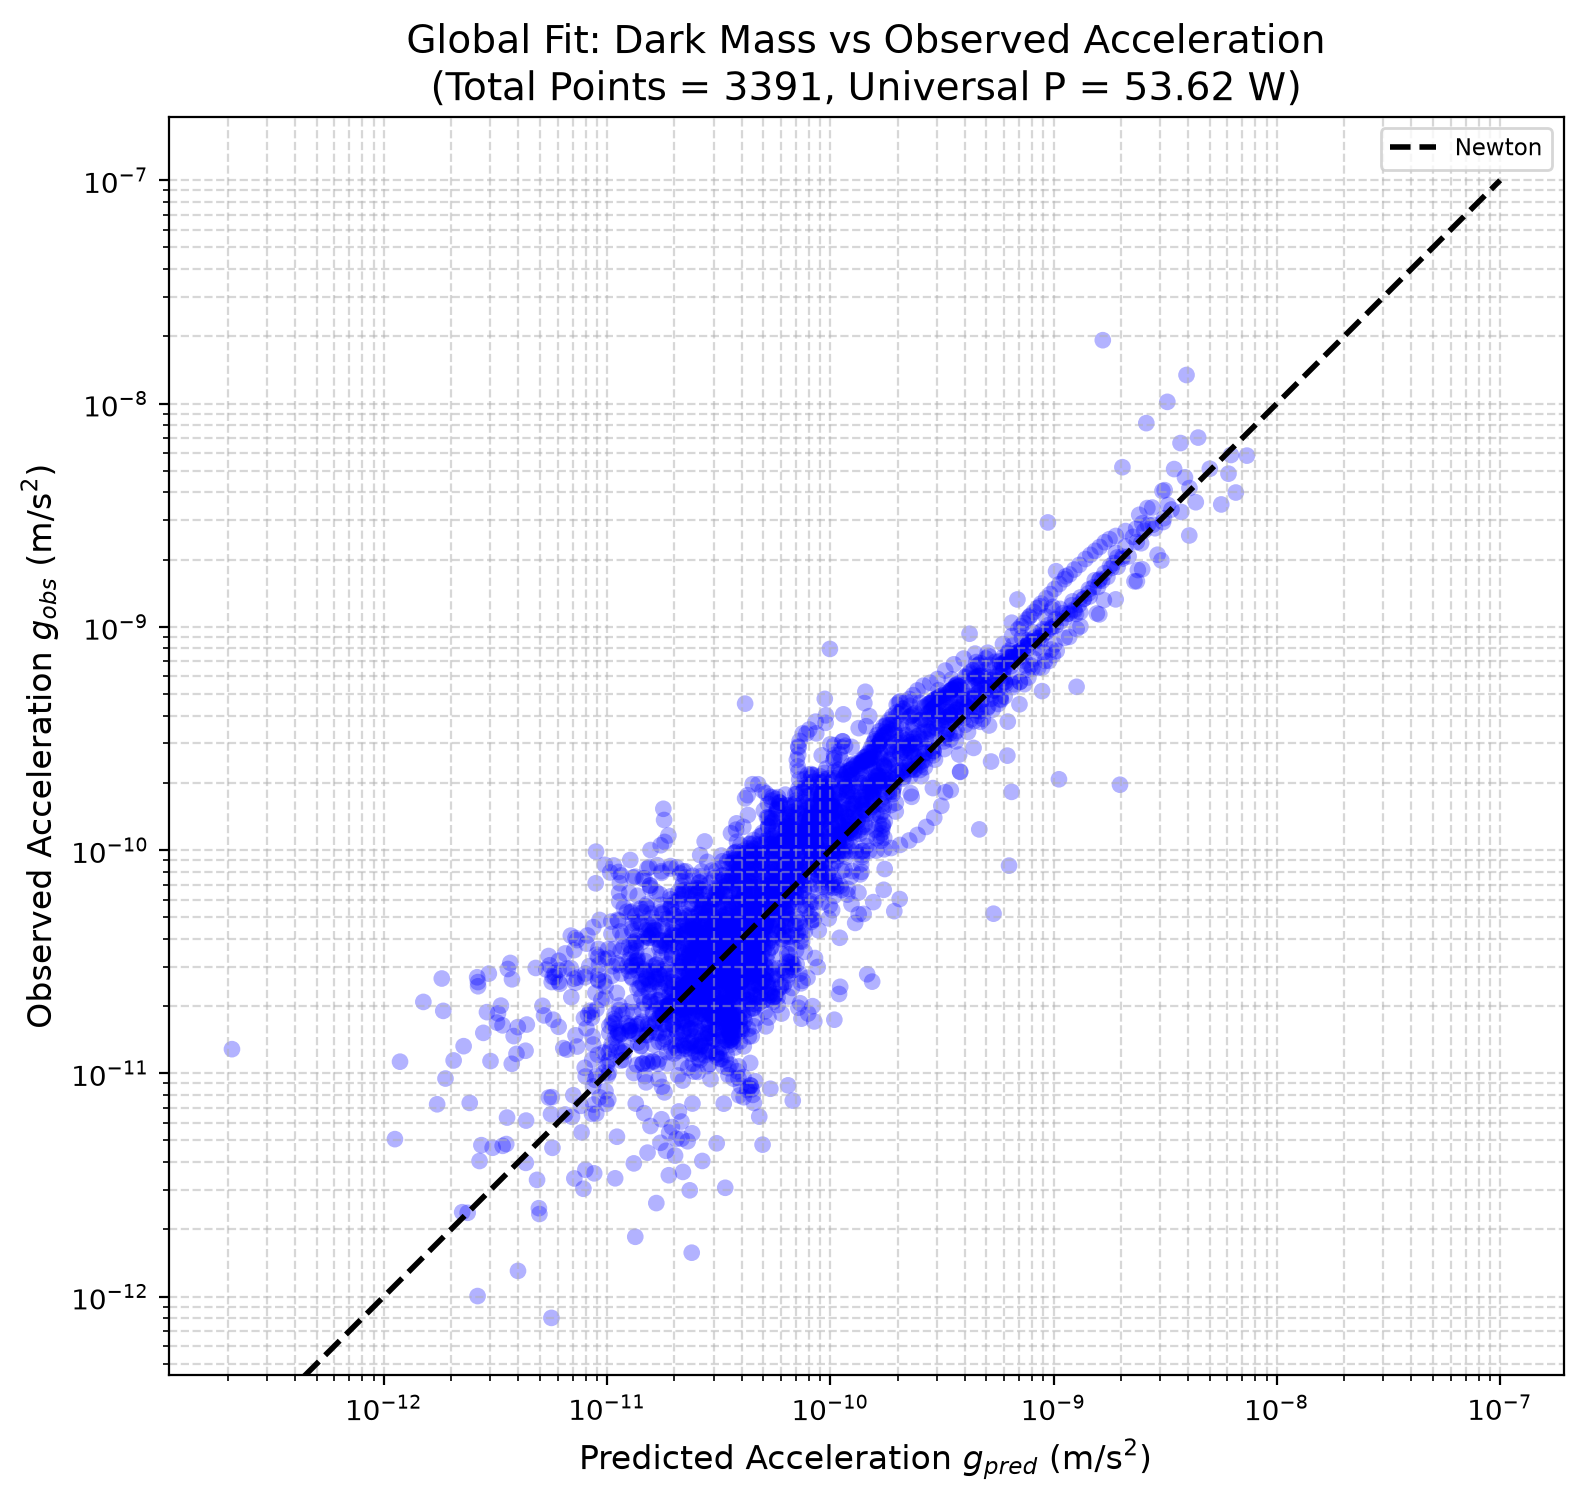
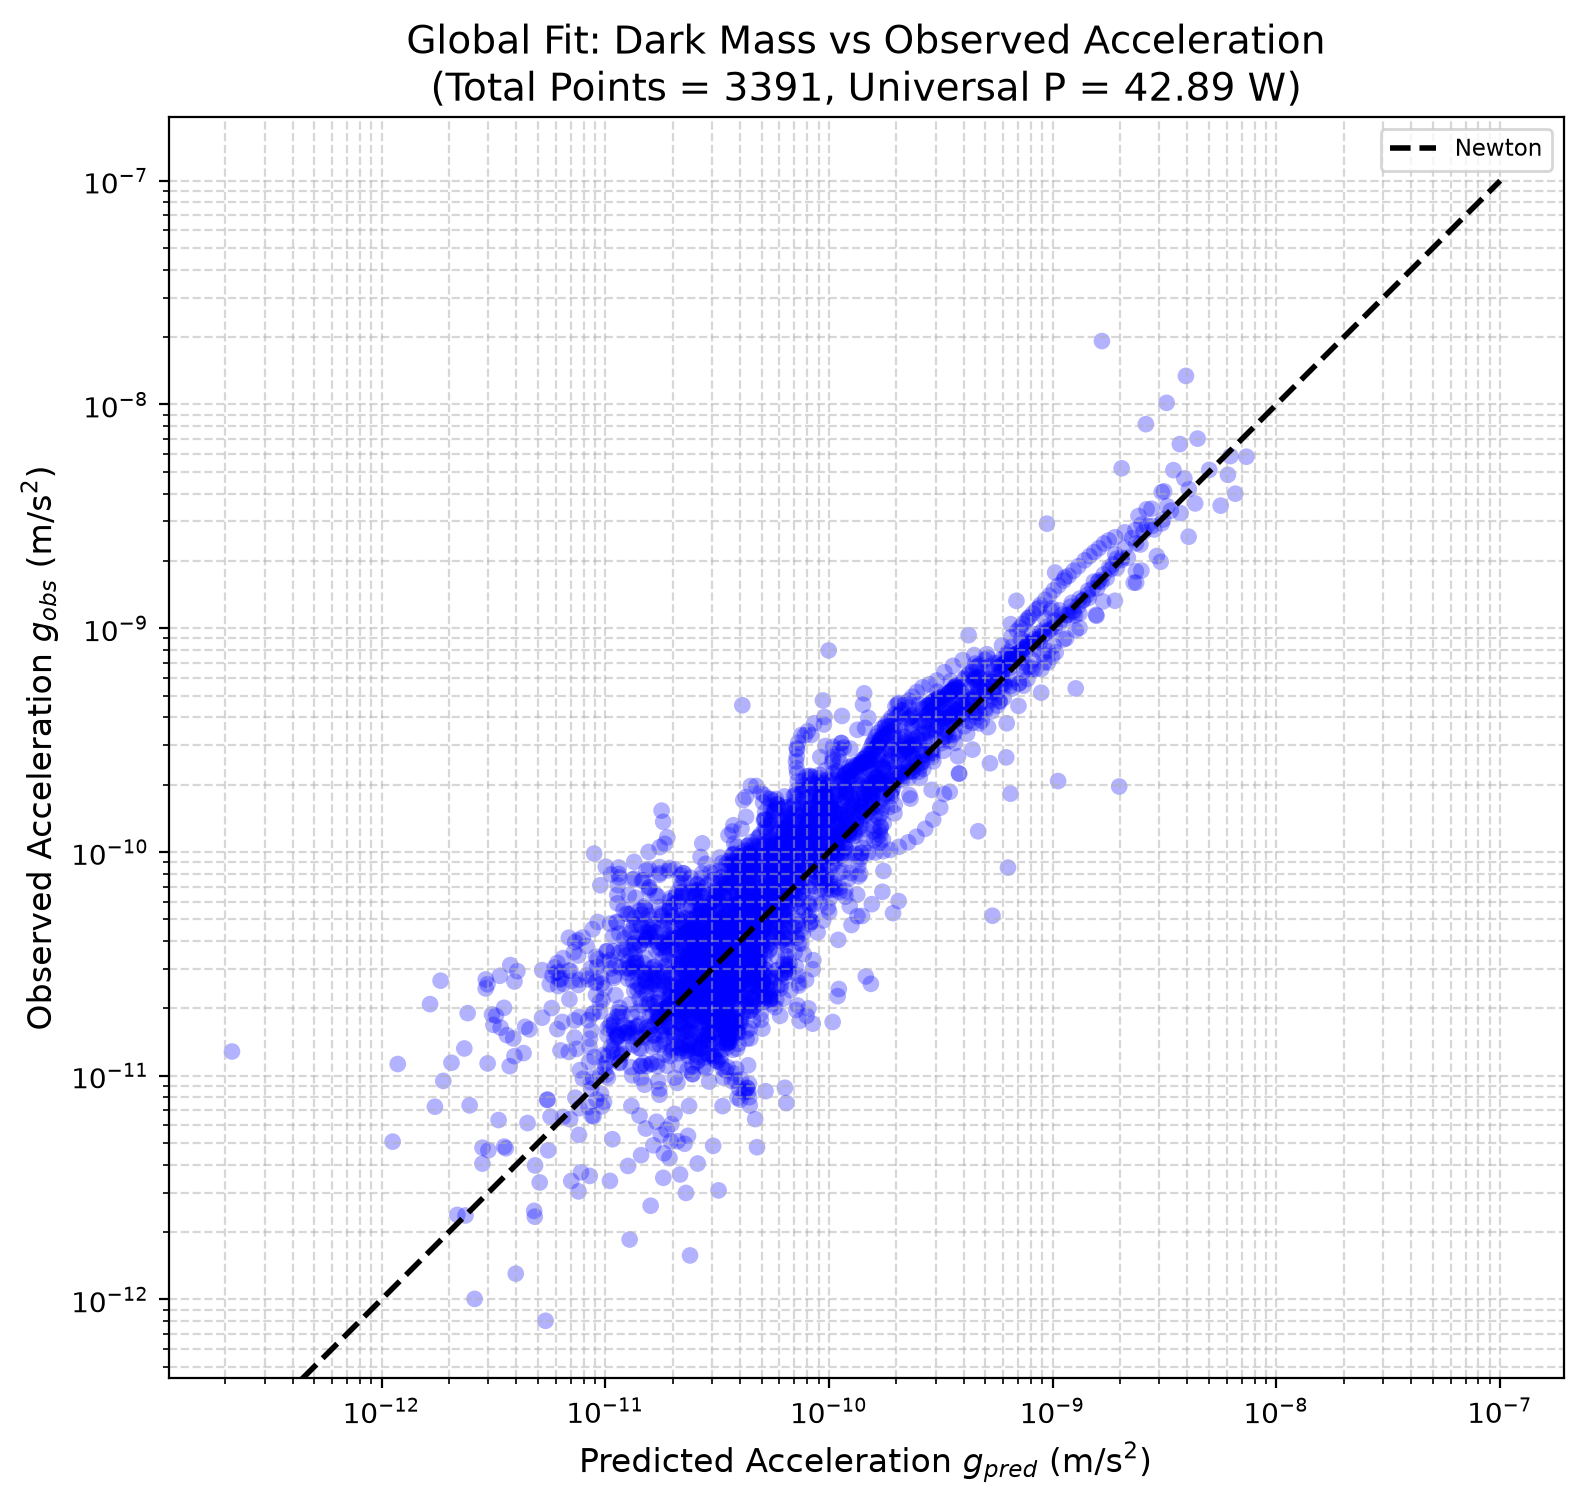
made the z range larger so the exponential disk can get to zero

diff --git a/sparc/sparc_dm_brute.py b/sparc/sparc_dm_brute.py
@@ -17,9 +17,13 @@ sqrt_Upsilon_bulge = np.sqrt(Upsilon_bulge)
 #MIN_DENSITY_FOR_DM = 0
 #MIN_DENSITY_WITHIN_R_D = 0   
  
-NUM_BLOBS_THETA = 153
-NUM_LAYERS_Z = 19
-NUM_R_BINS = 137  # Added for continuous 3D volume integration
+NUM_BLOBS_THETA = 87
+NUM_LAYERS_Z = 51
+Z_HEIGHT = 5 # number of scale heights of the disk we go to. Needs to be at least 2 for exponential disks, 1 would work for non exponential (i guess). 
+             # I want to experiment with adding extra galactic gas around the galaxy, which should create a lot of dark mass, lowering the required P
+             # and perhaps improving the scores.
+
+NUM_R_BINS = 87  # Added for continuous 3D volume integration
 USE_EXPONENTIAL_DISK = True
 
 
@@ -144,7 +148,7 @@ for i, gal in enumerate(galaxies):
     nz = NUM_LAYERS_Z
     ntheta = NUM_BLOBS_THETA
     
-    Z_m = np.linspace(-2.0 * hz_m, 2.0 * hz_m, nz) # 3hz to 3hz maybe better?    OR MORE for a extragalacit gas halo??
+    Z_m = np.linspace(-Z_HEIGHT * hz_m, Z_HEIGHT * hz_m, nz) # 3hz to 3hz maybe better?    OR MORE for a extragalacit gas halo??
     dZ = Z_m[1] - Z_m[0] if nz > 1 else 2.0 * hz_m 
     
     theta_rad = np.linspace(0, 2 * np.pi, ntheta, endpoint=False)
